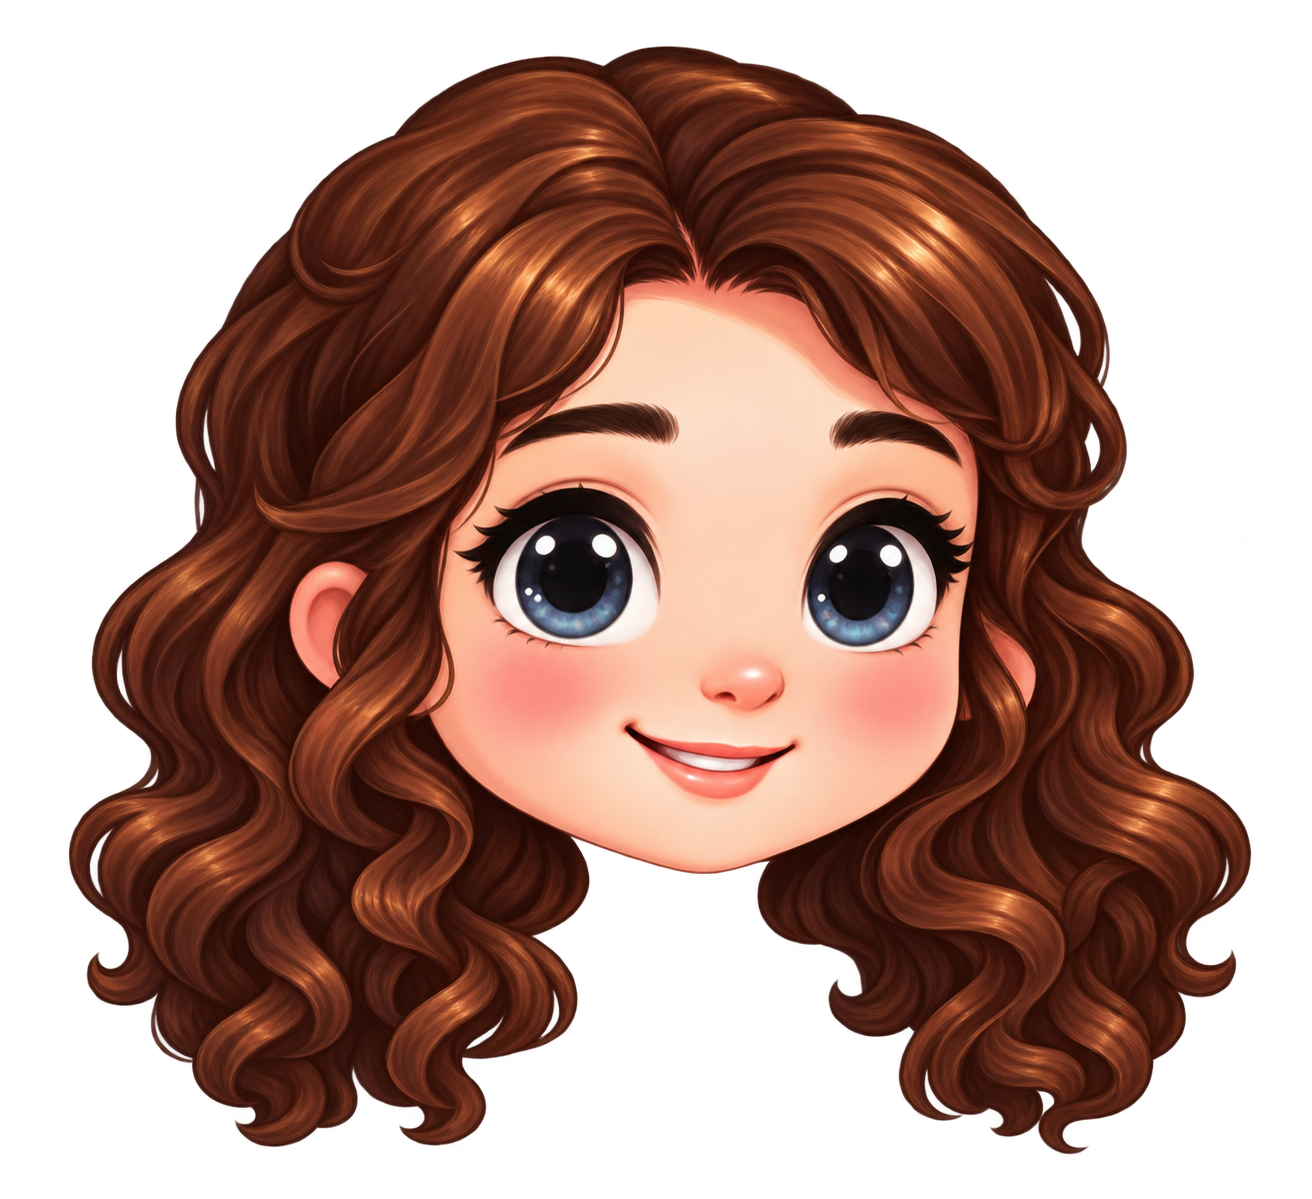
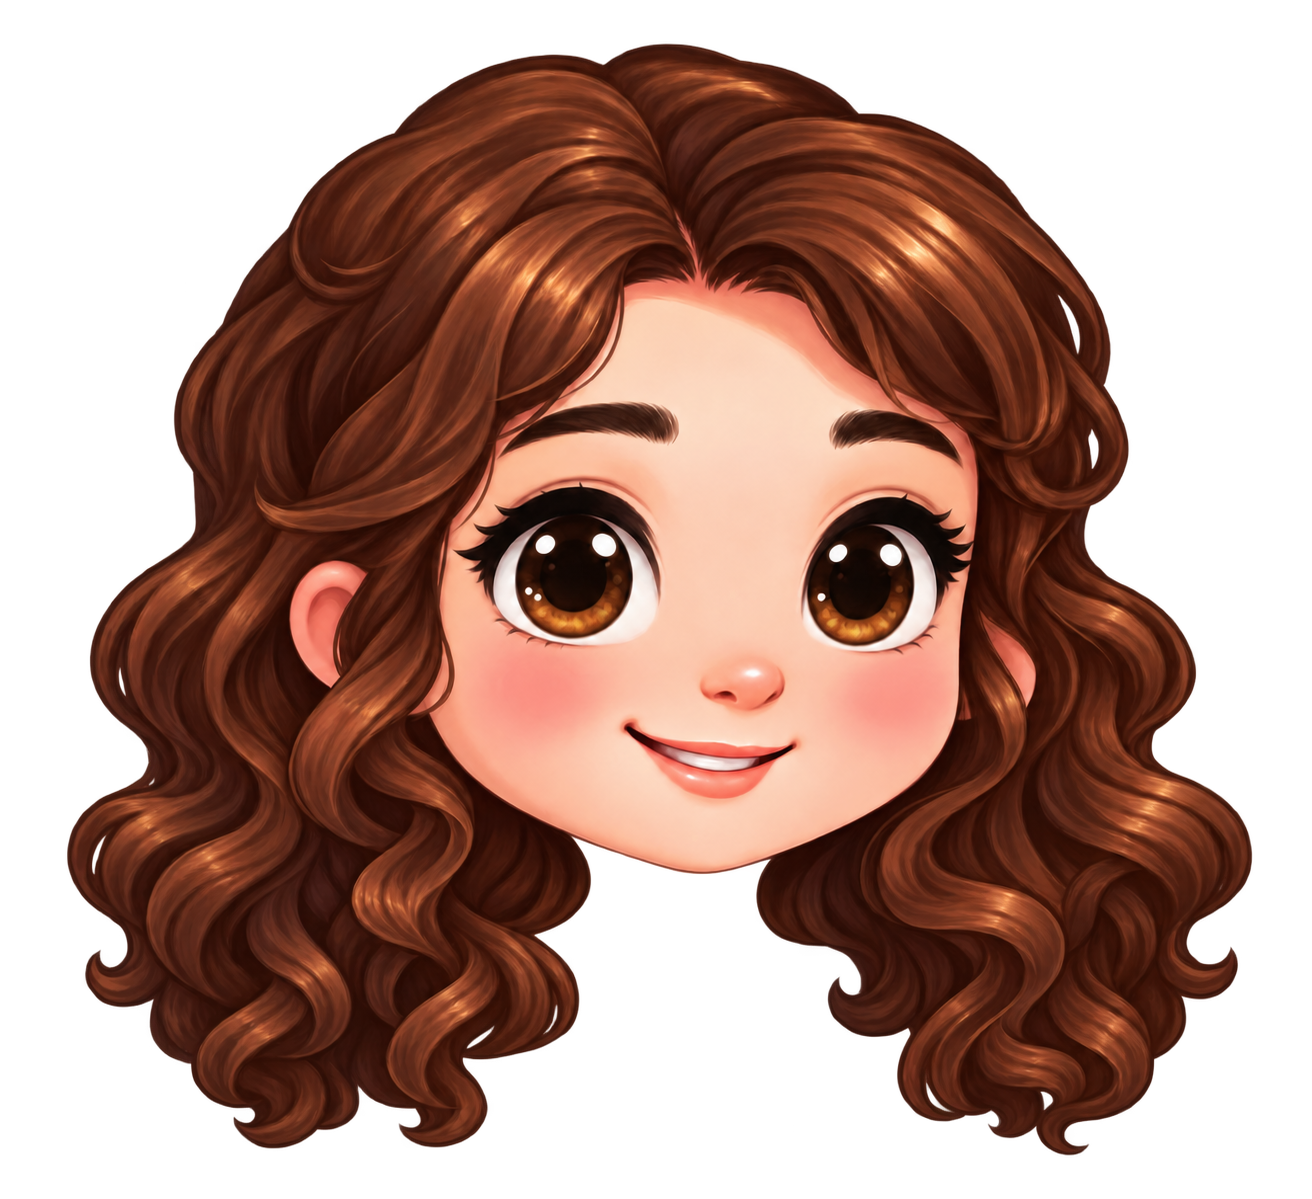
Give Maeve consistent brown eyes across dashboard and wardrobe

diff --git a/index.html b/index.html
@@ -34,7 +34,7 @@
 @media(max-width:650px){.mapStage{width:980px;min-width:980px}.mapScroll{border-width:2px}.quickPlaces{grid-template-columns:repeat(2,minmax(0,1fr))}}
 </style><link rel="stylesheet" href="wardrobe.css"><script src="wardrobe.js"></script><script src="characters.js"></script></head><body><div class="app"><header class="top"><div><div class="logo">🧁 Cupcake Island</div><div class="subtitle">Your island • Your style • Your adventures</div></div><div class="pill">⭐ <span id="stars">0</span> Stars</div></header><div class="shell"><nav class="nav" id="nav"></nav><main class="main" id="main"></main></div><div class="foot">Illustrated island prototype • Saves progress in this browser on this device • No purchases or accounts</div></div><script>
 const KEY='cupcake-island-v1';const defaults={stars:60,completed:[],owned:['pinkskirt','purplehoodie','pinkshoes'],hair:'pink',top:'purple',bottom:'pink',shoes:'pink',room:'cozy',placed:[],lastDay:''};let data;try{data={...defaults,...JSON.parse(localStorage.getItem(KEY)||'{}')}}catch{data={...defaults}};const today=new Date().toLocaleDateString('en-CA');if(data.lastDay!==today){data.completed=[];data.lastDay=today}let page='island',toastTimer;data.placed=Array.isArray(data.placed)?data.placed:[];const save=()=>{localStorage.setItem(KEY,JSON.stringify(data));document.getElementById('stars').textContent=data.stars};const navs=[['island','🏝 Island'],['wardrobe','👗 Wardrobe'],['quests','⭐ Quests'],['rewards','🎁 Rewards'],['room','🏡 My Room']];const quests=[['morning','☀','Morning Magic','Try your morning routine',15],['help','🧺','Helping Hands','Help with a chore',15],['reading','📚','Story Time','Read or listen to a book',15],['school','✏','Brain Power','Practice or finish schoolwork',15],['bedtime','🌙','Dreamy Night','Try your bedtime routine',15]];const items=[['cathead','🐱','Cat-ear Headphones',40],['rainbow','🌈','Rainbow Hoodie',35],['starshoes','👟','Starry High-Tops',30],['fishbowl','🐠','Mini Aquarium',45],['beanbag','🩷','Heart Beanbag',25],['lamp','💡','Moon Lamp',25]];function notify(t){clearTimeout(toastTimer);document.querySelector('.toast')?.remove();let el=document.createElement('div');el.className='toast';el.textContent=t;document.body.append(el);toastTimer=setTimeout(()=>el.remove(),2300)}function go(p){page=p;render();window.scrollTo({top:0,behavior:'smooth'})}function render(){document.getElementById('nav').innerHTML=navs.map(([id,label])=>`<button class="${page===id?'active':''}" onclick="go('${id}')">${label}</button>`).join('');document.getElementById('stars').textContent=data.stars;document.getElementById('main').innerHTML=({island:renderIsland,wardrobe:renderWardrobe,quests:renderQuests,rewards:renderRewards,room:renderRoom})[page]()}function renderIsland(){return `<h1 class="sectionTitle">Welcome to your island! 🌈</h1><p class="hint">Tap a place to explore. Your little adventures start here.</p><div class="island"><button class="place" style="top:34%;left:25%" onclick="go('room')"><span>🏡</span>My Cottage</button><button class="place" style="top:33%;left:73%" onclick="go('wardrobe')"><span>👗</span>Style Studio</button><button class="place" style="top:73%;left:27%" onclick="go('quests')"><span>🌸</span>Quest Garden</button><button class="place" style="top:73%;left:74%" onclick="go('rewards')"><span>🎁</span>Star Shop</button><div style="position:absolute;top:49%;left:45%;font-size:35px;pointer-events:none">🧁</div></div><div class="welcome"><div><strong>Hi, Maeve! 💖</strong><div class="hint" style="margin:5px 0 0">Your world is ready. Choose an adventure!</div></div><button class="cta" onclick="go('quests')">See Today's Quests ✨</button></div>`}
-function avatar(){let hair=data.hair==='pink'?'#f45fae':data.hair==='purple'?'#b18bef':'#75432e';let hoodie={purple:'#9d75ec',pink:'#ff84be',mint:'#6ad9c5',rainbow:'url(#rainbowHoodie)'}[data.top]||'#9d75ec';let skirt={pink:'#ff80bf',purple:'#b78cf5',blue:'#77c7ff'}[data.bottom];let shoe={pink:'#f65fa5',purple:'#9670e9',blue:'#62b8e9'}[data.shoes];return `<svg class="avatar" viewBox="0 0 220 330" xmlns="http://www.w3.org/2000/svg" role="img" aria-label="Maeve avatar with brown shoulder-length hair and pink streaks"><defs><linearGradient id="rainbowHoodie" x1="0" y1="0" x2="1" y2="1"><stop offset="0%" stop-color="#ff77bd"/><stop offset="25%" stop-color="#ffcf70"/><stop offset="50%" stop-color="#8de5c5"/><stop offset="75%" stop-color="#8abaff"/><stop offset="100%" stop-color="#b998f8"/></linearGradient></defs><ellipse cx="110" cy="313" rx="72" ry="10" fill="#c9b5df"/><path d="M57 89Q49 21 110 24Q172 18 164 91L175 149Q145 172 110 153Q69 171 47 147Z" fill="#5a342d" stroke="#4a2b36" stroke-width="4"/><path d="M58 83Q47 45 74 31Q112 11 144 35Q171 54 159 97L169 147Q155 157 144 156L148 83Q107 43 70 83L72 155Q58 155 51 147Z" fill="#73412f"/><path d="M54 89Q59 63 71 52L67 143" fill="none" stroke="${hair}" stroke-width="9"/><path d="M157 79Q161 115 163 142" fill="none" stroke="${hair}" stroke-width="9"/><ellipse cx="110" cy="94" rx="51" ry="56" fill="#f5b58e" stroke="#a65f64" stroke-width="2"/><path d="M61 73Q69 26 114 33Q151 34 162 73Q143 62 135 49Q116 70 79 66Z" fill="#663b2e"/><path d="M75 65Q100 51 113 41" stroke="${hair}" stroke-width="6" fill="none"/><ellipse cx="90" cy="98" rx="11" ry="15" fill="#7342a5"/><ellipse cx="133" cy="98" rx="11" ry="15" fill="#7342a5"/><circle cx="94" cy="92" r="4" fill="white"/><circle cx="137" cy="92" r="4" fill="white"/><ellipse cx="75" cy="117" rx="10" ry="5" fill="#ed8a96" opacity=".6"/><ellipse cx="147" cy="117" rx="10" ry="5" fill="#ed8a96" opacity=".6"/><path d="M102 124Q111 134 122 124" fill="none" stroke="#b34e70" stroke-width="3" stroke-linecap="round"/><path d="M83 148L137 148L156 217L64 217Z" fill="${hoodie}" stroke="#6c4b98" stroke-width="3"/><path d="M81 157L59 166L41 213L59 219L77 191M140 157L160 166L178 213L160 219L144 191" fill="${hoodie}" stroke="#6c4b98" stroke-width="3"/><path d="M99 151L108 170L118 151" fill="none" stroke="white" stroke-width="3"/><path d="M107 182L112 172L117 182L127 183L120 190L123 200L112 195L101 200L104 190L97 183Z" fill="#ffe282"/><path d="M68 215Q110 195 153 215L173 251Q112 271 48 251Z" fill="${skirt}" stroke="#c057a0" stroke-width="3"/><path d="M58 236Q111 249 163 236M56 250Q109 261 165 250" fill="none" stroke="#ffe5f6" stroke-width="4" stroke-dasharray="5 7"/><path d="M83 260L80 290M137 260L140 290" stroke="#f4b28f" stroke-width="16" stroke-linecap="round"/><path d="M68 283L97 283L102 309L63 309Q59 299 68 283ZM124 283L153 283L159 309L119 309Z" fill="${shoe}" stroke="#764c90" stroke-width="3"/><path d="M73 292L92 292M73 298L94 298M129 292L149 292M129 298L151 298" stroke="white" stroke-width="3"/><path d="M62 309H103M118 309H160" stroke="white" stroke-width="6"/><path d="M62 49L71 37L80 49L70 59Z" fill="#ff8ecf"/><path d="M146 47L154 36L162 48L153 58Z" fill="#ff8ecf"/></svg>`}
+function avatar(){let hair=data.hair==='pink'?'#f45fae':data.hair==='purple'?'#b18bef':'#75432e';let hoodie={purple:'#9d75ec',pink:'#ff84be',mint:'#6ad9c5',rainbow:'url(#rainbowHoodie)'}[data.top]||'#9d75ec';let skirt={pink:'#ff80bf',purple:'#b78cf5',blue:'#77c7ff'}[data.bottom];let shoe={pink:'#f65fa5',purple:'#9670e9',blue:'#62b8e9'}[data.shoes];return `<svg class="avatar" viewBox="0 0 220 330" xmlns="http://www.w3.org/2000/svg" role="img" aria-label="Maeve avatar with brown shoulder-length hair and pink streaks"><defs><linearGradient id="rainbowHoodie" x1="0" y1="0" x2="1" y2="1"><stop offset="0%" stop-color="#ff77bd"/><stop offset="25%" stop-color="#ffcf70"/><stop offset="50%" stop-color="#8de5c5"/><stop offset="75%" stop-color="#8abaff"/><stop offset="100%" stop-color="#b998f8"/></linearGradient></defs><ellipse cx="110" cy="313" rx="72" ry="10" fill="#c9b5df"/><path d="M57 89Q49 21 110 24Q172 18 164 91L175 149Q145 172 110 153Q69 171 47 147Z" fill="#5a342d" stroke="#4a2b36" stroke-width="4"/><path d="M58 83Q47 45 74 31Q112 11 144 35Q171 54 159 97L169 147Q155 157 144 156L148 83Q107 43 70 83L72 155Q58 155 51 147Z" fill="#73412f"/><path d="M54 89Q59 63 71 52L67 143" fill="none" stroke="${hair}" stroke-width="9"/><path d="M157 79Q161 115 163 142" fill="none" stroke="${hair}" stroke-width="9"/><ellipse cx="110" cy="94" rx="51" ry="56" fill="#f5b58e" stroke="#a65f64" stroke-width="2"/><path d="M61 73Q69 26 114 33Q151 34 162 73Q143 62 135 49Q116 70 79 66Z" fill="#663b2e"/><path d="M75 65Q100 51 113 41" stroke="${hair}" stroke-width="6" fill="none"/><ellipse cx="90" cy="98" rx="11" ry="15" fill="#70452d"/><ellipse cx="133" cy="98" rx="11" ry="15" fill="#70452d"/><circle cx="94" cy="92" r="4" fill="white"/><circle cx="137" cy="92" r="4" fill="white"/><ellipse cx="75" cy="117" rx="10" ry="5" fill="#ed8a96" opacity=".6"/><ellipse cx="147" cy="117" rx="10" ry="5" fill="#ed8a96" opacity=".6"/><path d="M102 124Q111 134 122 124" fill="none" stroke="#b34e70" stroke-width="3" stroke-linecap="round"/><path d="M83 148L137 148L156 217L64 217Z" fill="${hoodie}" stroke="#6c4b98" stroke-width="3"/><path d="M81 157L59 166L41 213L59 219L77 191M140 157L160 166L178 213L160 219L144 191" fill="${hoodie}" stroke="#6c4b98" stroke-width="3"/><path d="M99 151L108 170L118 151" fill="none" stroke="white" stroke-width="3"/><path d="M107 182L112 172L117 182L127 183L120 190L123 200L112 195L101 200L104 190L97 183Z" fill="#ffe282"/><path d="M68 215Q110 195 153 215L173 251Q112 271 48 251Z" fill="${skirt}" stroke="#c057a0" stroke-width="3"/><path d="M58 236Q111 249 163 236M56 250Q109 261 165 250" fill="none" stroke="#ffe5f6" stroke-width="4" stroke-dasharray="5 7"/><path d="M83 260L80 290M137 260L140 290" stroke="#f4b28f" stroke-width="16" stroke-linecap="round"/><path d="M68 283L97 283L102 309L63 309Q59 299 68 283ZM124 283L153 283L159 309L119 309Z" fill="${shoe}" stroke="#764c90" stroke-width="3"/><path d="M73 292L92 292M73 298L94 298M129 292L149 292M129 298L151 298" stroke="white" stroke-width="3"/><path d="M62 309H103M118 309H160" stroke="white" stroke-width="6"/><path d="M62 49L71 37L80 49L70 59Z" fill="#ff8ecf"/><path d="M146 47L154 36L162 48L153 58Z" fill="#ff8ecf"/></svg>`}
 function choices(label,key,opts){return `<h3 style="margin:13px 0 7px">${label}</h3><div class="swatches">${opts.map(([v,n])=>`<button class="${data[key]===v?'selected':''}" onclick="change('${key}','${v}')">${n}</button>`).join('')}</div>`}function change(k,v){data[k]=v;save();render()}
 function renderWardrobe(){return `<h1 class="sectionTitle">Maeve's Style Studio 💖</h1><p class="hint">Mix and match! Your look saves automatically.</p><div class="two"><div class="avatarStage">${avatar()}</div><div class="panel">${choices('Hair streaks','hair',[['pink','💗 Pink'],['purple','💜 Purple'],['brown','🤎 Natural']])}${choices('Hoodie','top',[['purple','💜 Lavender'],['pink','💗 Bubblegum'],['mint','🩵 Mint'],...(data.owned.includes('rainbow')?[['rainbow','🌈 Rainbow Hoodie ✓']]:[])] )}${choices('Tulle skirt','bottom',[['pink','💗 Pink'],['purple','💜 Lilac'],['blue','🩵 Sky']])}${choices('High-top sneakers','shoes',[['pink','💗 Pink'],['purple','💜 Purple'],['blue','🩵 Blue']])}<span class="badge">✨ Your outfit is saved!</span><p class="hint" style="margin-top:12px">Bought a new hoodie? It will appear in your hoodie choices above. <button class="cta" onclick="go('rewards')">Visit Star Shop 🎁</button></p></div></div>`}
 function renderQuests(){return `<h1 class="sectionTitle">Today's Little Quests 🌸</h1><p class="hint">Every try counts. No streaks, no penalties, and no lost stars.</p><div class="panel"><strong>${data.completed.length} of ${quests.length} quests celebrated today</strong><div class="progress"><div style="width:${data.completed.length/quests.length*100}%"></div></div></div>${quests.map(([id,emoji,title,desc,stars])=>`<div class="quest ${data.completed.includes(id)?'done':''}"><div class="emoji">${emoji}</div><div class="desc"><strong>${title}</strong><small>${desc} · +${stars} stars</small></div><button ${data.completed.includes(id)?'disabled':''} onclick="complete('${id}')">${data.completed.includes(id)?'✓ Done':'I tried it!'}</button></div>`).join('')}<p class="hint">Parent tip: This prototype uses a simple celebration button. Later we can add editable steps and parent-approved chores.</p>`}function complete(id){if(data.completed.includes(id))return;data.completed.push(id);data.stars+=15;save();render();celebrate('Amazing effort! +15 stars ⭐')}

diff --git a/wardrobe.js b/wardrobe.js
@@ -19,7 +19,7 @@ window.MaeveWardrobe = (() => {
   function avatar(d) {
     const streak=color('hair',d.hair), hoodie=d.top==='rainbow'?'url(#maeve-rainbow)':color('top',d.top), skirt=color('bottom',d.bottom), shoes=d.shoes==='starshoes'?'#645090':color('shoes',d.shoes);
     const accessory=choices(d,'accessory').some(x=>x[0]===d.accessory)?d.accessory:'bow';
-    return `<svg class="maeve-art" viewBox="0 0 320 420" role="img" aria-label="Maeve matching the island portrait, with glossy eyes, chestnut curls, ${d.hair==='brown'?'natural brown':'colored'} streaks and her chosen outfit" xmlns="http://www.w3.org/2000/svg">
+    return `<svg class="maeve-art" viewBox="0 0 320 420" role="img" aria-label="Maeve matching the island portrait, with glossy brown eyes, chestnut curls, ${d.hair==='brown'?'natural brown':'colored'} streaks and her chosen outfit" xmlns="http://www.w3.org/2000/svg">
     <defs><linearGradient id="maeve-hair" x2=".8" y2="1"><stop stop-color="#98634b"/><stop offset=".5" stop-color="#684134"/><stop offset="1" stop-color="#482e32"/></linearGradient><linearGradient id="maeve-skin" x2=".7" y2="1"><stop stop-color="#ffe1cc"/><stop offset="1" stop-color="#f3b9a1"/></linearGradient><linearGradient id="maeve-rainbow" x2="1" y2="1"><stop stop-color="#ff9ac9"/><stop offset=".35" stop-color="#ffe295"/><stop offset=".65" stop-color="#9ce4d6"/><stop offset="1" stop-color="#b99bec"/></linearGradient><radialGradient id="maeve-iris"><stop stop-color="#c28a4e"/><stop offset="1" stop-color="#59372d"/></radialGradient></defs>
     <ellipse cx="160" cy="399" rx="93" ry="12" fill="#bba3d0" opacity=".3"/>
     <g stroke="#593948" stroke-width="3" stroke-linejoin="round" stroke-linecap="round">

diff --git a/island-portraits.js b/island-portraits.js
@@ -3,7 +3,8 @@
   const previousIsland = renderIsland;
   renderIsland = function () {
     const portrait = '<img class="wobblehorn-map-portrait" src="' + CupcakeCharacters.sources.wobblehorn.url + '" alt="Professor Wobblehorn, a white unicorn with a golden horn, rainbow mane and purple wizard clothes" style="position:absolute;inset:0;width:100%;height:100%;object-fit:fill;clip-path:inset(0 19.8% 85% 64.5%);pointer-events:none;z-index:1">';
-    return previousIsland().replace('<div class="mapStage">', '<div class="mapStage">' + portrait);
+    const maeveEyes = '<svg class="maeve-map-eyes" viewBox="0 0 1536 1024" role="img" aria-label="Maeve with brown eyes" style="position:absolute;inset:0;width:100%;height:100%;pointer-events:none;z-index:2" xmlns="http://www.w3.org/2000/svg"><defs><clipPath id="maeve-map-eye-clip"><ellipse cx="96" cy="85" rx="8" ry="10"/><ellipse cx="124" cy="85" rx="8" ry="10"/></clipPath></defs><image href="assets/maeve-map-brown-eyes.png" width="1536" height="1024" clip-path="url(#maeve-map-eye-clip)"/></svg>';
+    return previousIsland().replace('<div class="mapStage">', '<div class="mapStage">' + portrait + maeveEyes);
   };
   render();
 })();

diff --git a/tests/maeve_eyes_smoke.py b/tests/maeve_eyes_smoke.py
@@ -1,0 +1,30 @@
+"""Verify rendered dashboard eyes and the shared wardrobe sprite are brown."""
+from io import BytesIO
+from pathlib import Path
+from PIL import Image
+from playwright.sync_api import sync_playwright
+
+def brown(pixel):
+    r, g, b = pixel[:3]
+    return r > b + 15 and r > g
+
+head = Image.open(Path(__file__).resolve().parents[1] / 'assets/maeve-portrait-head.png')
+assert brown(head.getpixel((575, 620))) and brown(head.getpixel((860, 630)))
+with sync_playwright() as p:
+    browser = p.chromium.launch(executable_path='/usr/bin/chromium', args=['--no-sandbox'])
+    page = browser.new_page(viewport={'width':1700, 'height':1200})
+    page.goto('http://127.0.0.1:8000')
+    saved = page.evaluate('localStorage.getItem("cupcake-island-v1")')
+    assert page.locator('.maeve-map-eyes').count() == 1
+    page.evaluate('''async () => {const image=new Image();image.src=document.querySelector('.maeve-map-eyes image').getAttribute('href');await image.decode();}''')
+    page.locator('.mapStage').evaluate("e=>{e.style.width='1536px';e.style.minWidth='1536px'}")
+    screenshot = Image.open(BytesIO(page.locator('.mapStage').screenshot()))
+    assert brown(screenshot.getpixel((96, 89))) and brown(screenshot.getpixel((124, 89)))
+    page.get_by_role('button', name='👗 Wardrobe', exact=True).click()
+    assert 'brown eyes' in page.locator('.maeve-art').get_attribute('aria-label')
+    assert page.locator('[data-portrait-head]').get_attribute('href') == 'assets/maeve-portrait-head.png'
+    assert page.evaluate('localStorage.getItem("cupcake-island-v1")') == saved
+    page.goto('http://127.0.0.1:8000/wardrobe-preview.html')
+    assert page.locator('[data-portrait-head]').get_attribute('href') == 'assets/maeve-portrait-head.png'
+    print('PASS: brown irises in rendered dashboard, shared wardrobe and preview asset, unchanged progress')
+    browser.close()

diff --git a/docs/wardrobe-review.md b/docs/wardrobe-review.md
@@ -57,3 +57,12 @@ portrait is reused as-is. Wobblehorn uses the existing corrected dashboard asset
 Existing animation, captions, routines, rewards, and save logic are retained.
 Run `python3 tests/characters_smoke.py` with the static server running to verify
 shared image sources, loading, animation cleanup, navigation and unchanged saves.
+
+## Maeve's brown eyes
+
+The shared wardrobe/preview head asset now has brown irises. The dashboard uses
+an eye-area overlay from `assets/maeve-map-brown-eyes.png`, preserving the rest
+of the original map and its shared Fizzbert portrait. Legacy vector Maeve also
+uses brown eyes. Eye color is fixed and independent of outfit/hair selections.
+`python3 tests/maeve_eyes_smoke.py` checks brown iris pixels in the rendered map
+and head asset, shared preview use, and unchanged saved progress.
